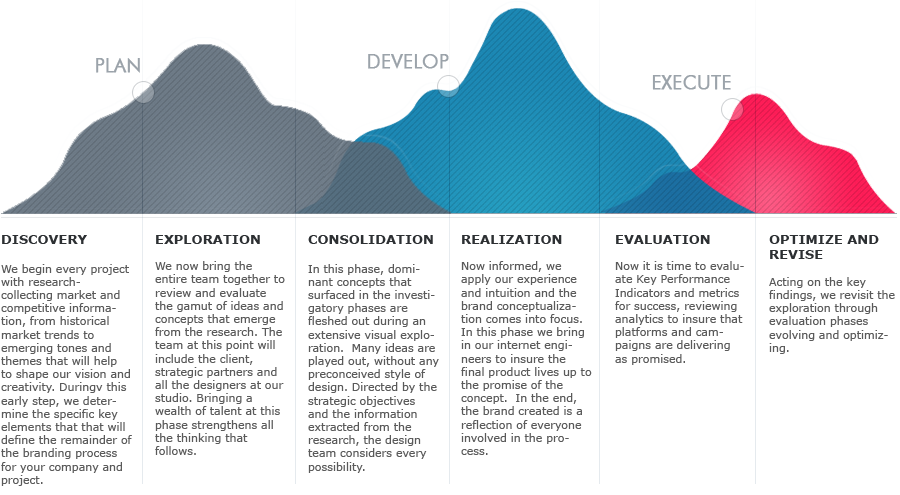
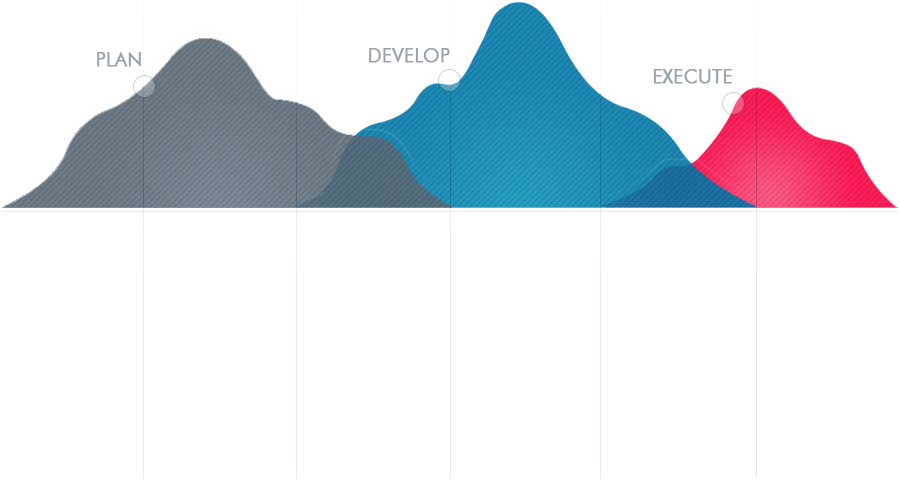
process image to text

diff --git a/public/stylesheets/style.css b/public/stylesheets/style.css
@@ -934,6 +934,54 @@ clear: both;
 #process {
     padding-bottom: 50px;
 }
+#process .image {
+	position: relative;
+}
+#process .image .text {
+	position: absolute;
+    top: 210px;
+    width: 100%;
+}
+#process .image .text table {
+	width: 98%;
+}
+#process .image .text table tr {}
+#process .image .text table tr td {
+	display: block;
+    float: left;
+    padding: 0 10px;
+    vertical-align: top;
+    width: 124px;
+}
+#process .image .text table tr td h3 {
+	color: #2D3033;
+    font-size: 15px;
+    text-transform: uppercase;
+}
+#process .image .text table tr td p {
+	color: #5A5A5A;
+    font-size: 11px;
+}
+#process .image .text .item-1 {
+	padding-left: 0;
+    width: 134px;
+}
+#process .image .text .item-2 {
+	width: 133px;
+}
+#process .image .text .item-3 {
+	width: 134px;
+}
+#process .image .text .item-4 {
+	width: 130px;
+}
+#process .image .text .item-5 {
+	width: 136px;
+}
+#process .image .text .item-6 {
+	padding-right: 0;
+    width: 134px;
+}
 
 #blog {
     padding-top: 50px;
